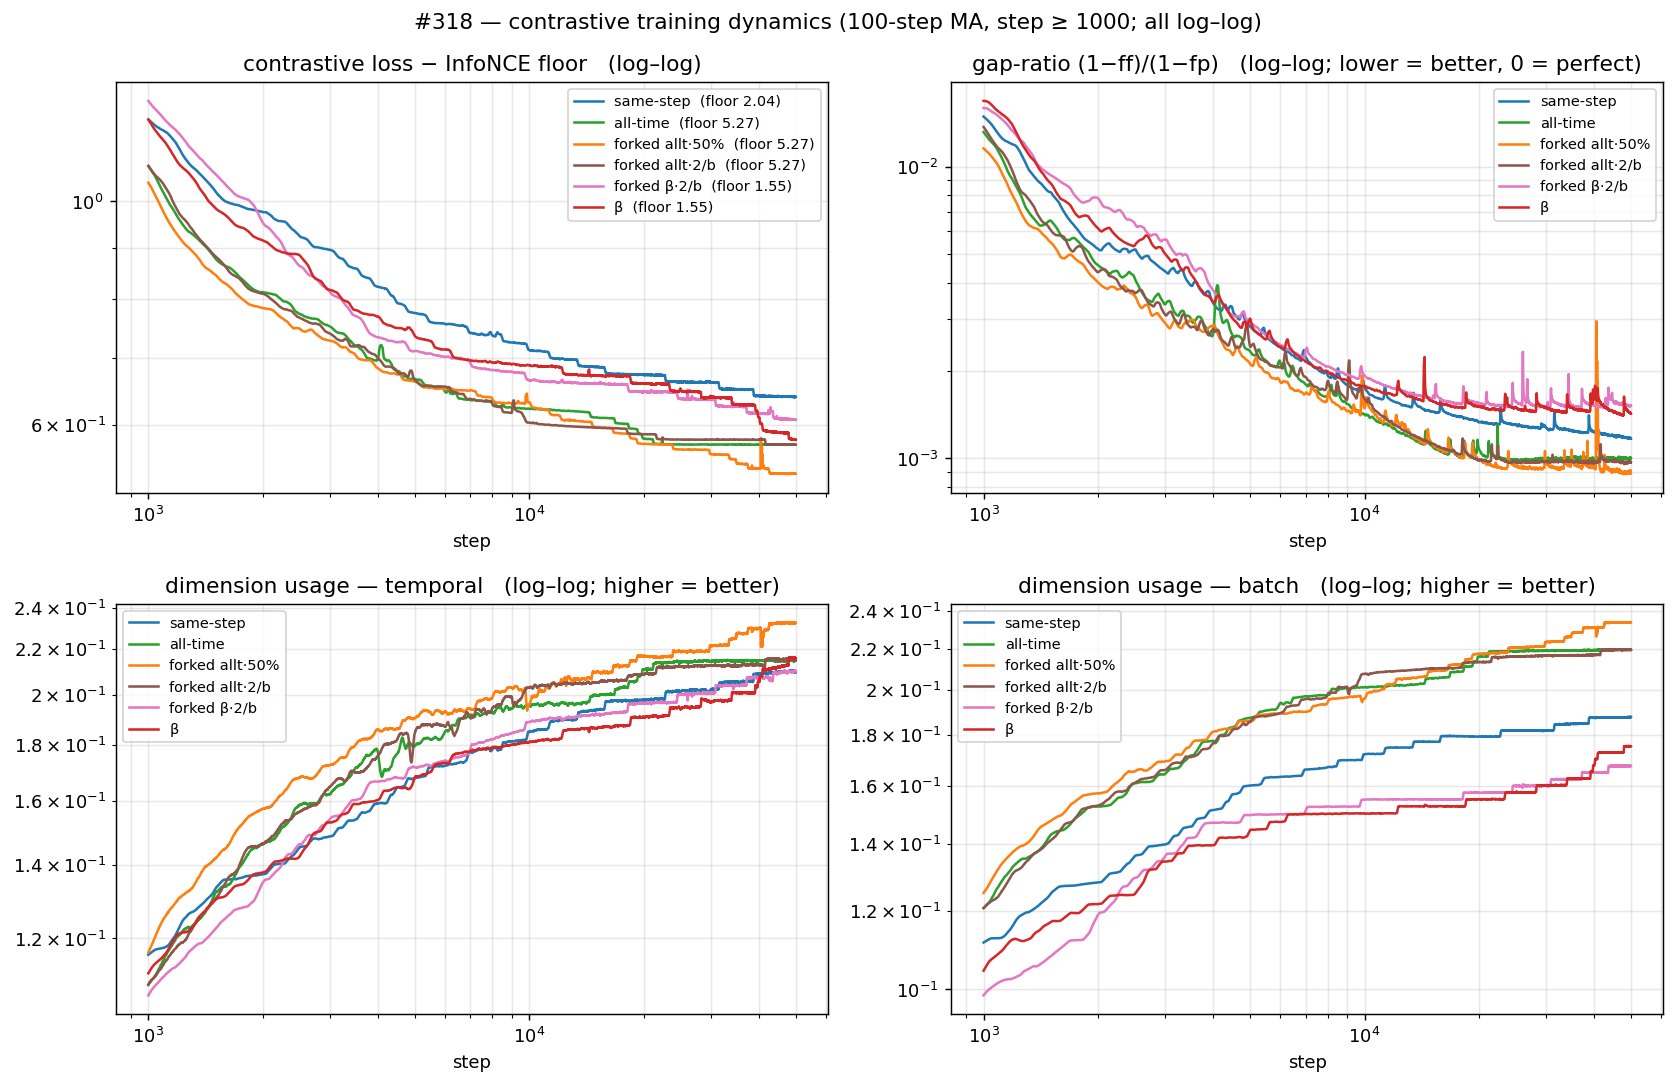
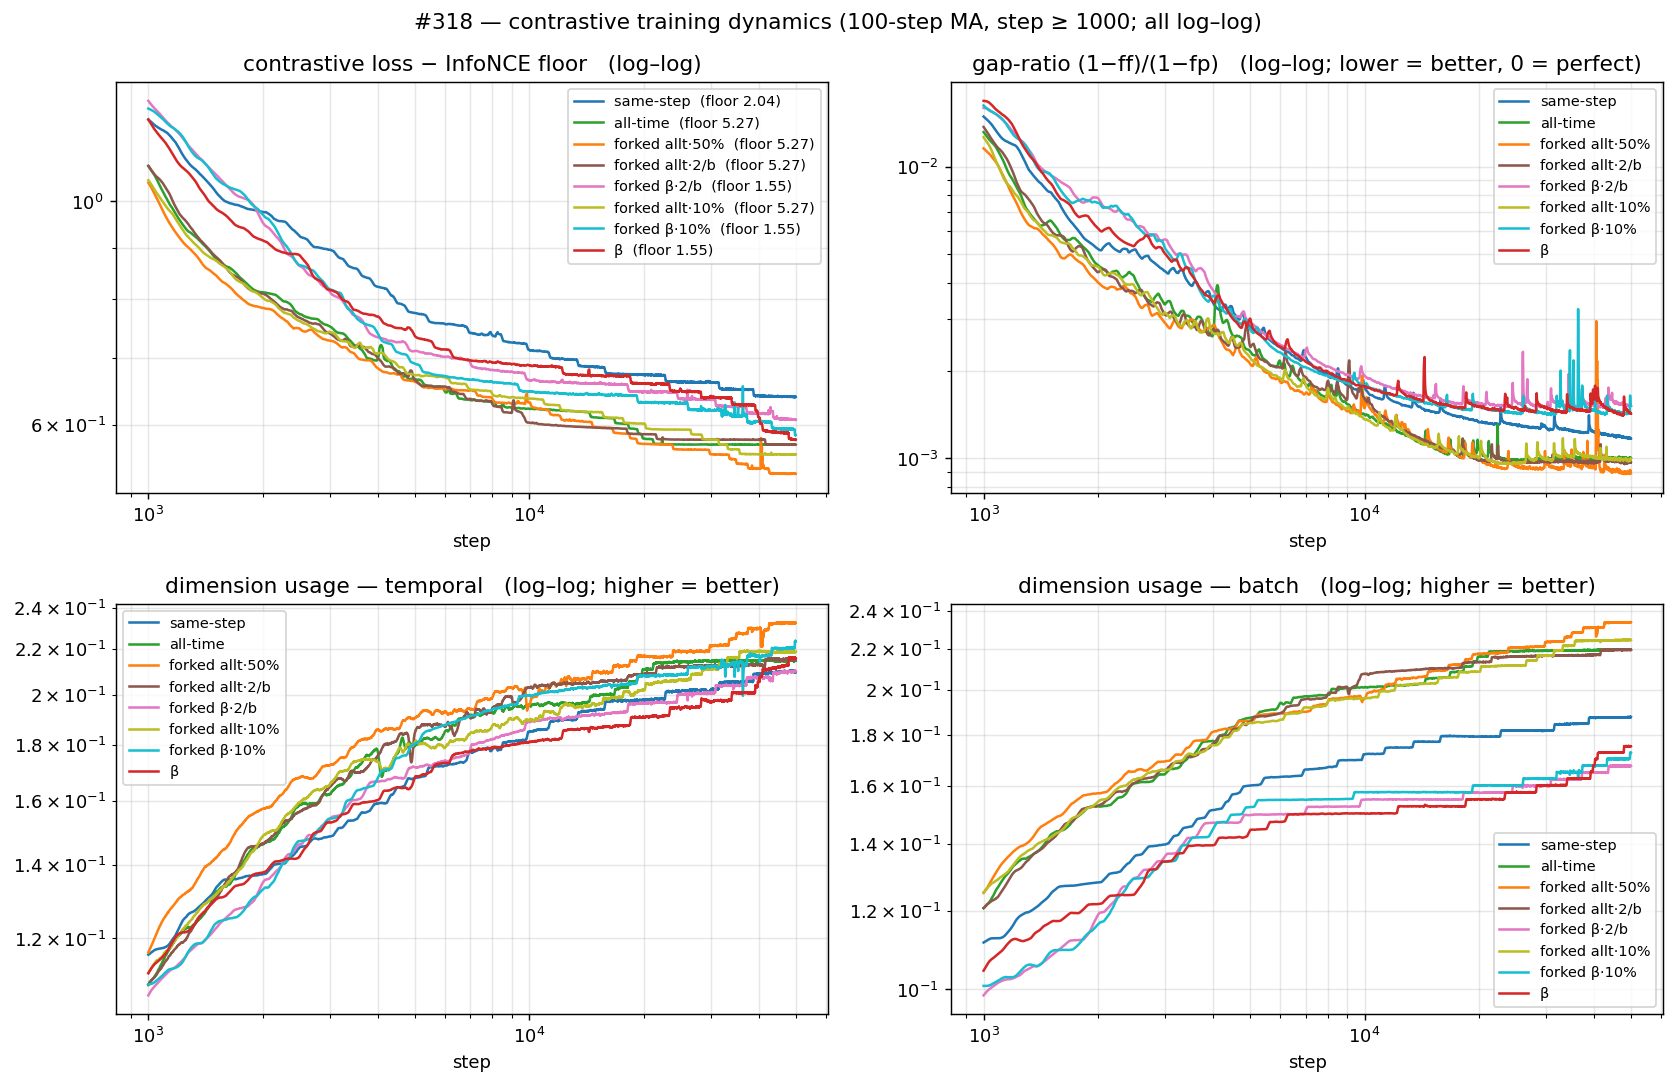
results(#318): β-10% 2L = 1.3030 — first arm to beat β (developing)
The 10% forked injection on β edges β·2L (1.3272) at the 2L head: 1.3030 (-1.8%),
reversing the 0.8% result (1.5302). Verdict updated to "developing": data-side
fork is injection-fraction-dependent. Preliminary — 2L only, single seed (margin
~noise); 6L + all-time-10% still evaluating. Wired 10% arms into gm_summary +
training_curves (auto-fill as heads land).

diff --git a/experiments/2026-05-23_xseries_hh/scripts/plots.py b/experiments/2026-05-23_xseries_hh/scripts/plots.py
@@ -50,9 +50,12 @@ BETA_CSV = f"{BETA_DIR}/runs/bb_beta_50k_losses.csv"
 FORK_CSV  = f"{OUT}/runs/bb_xshh_allt_forked_50k_losses.csv"    # forked, all-time loss, 50% synth
 FORK2_CSV = f"{OUT}/runs/bb_xshh_allt_forked2_50k_losses.csv"   # forked, all-time loss, 2 samples/batch
 BFORK_CSV = f"{OUT}/runs/bb_beta_forked2_50k_losses.csv"        # forked, β loss, 2 samples/batch
+FORK10_CSV  = f"{OUT}/runs/bb_xshh_allt_forked10pct_50k_losses.csv"  # forked, all-time loss, 10%
+BFORK10_CSV = f"{OUT}/runs/bb_beta_forked10pct_50k_losses.csv"       # forked, β loss, 10%
 
 C_XSHH, C_ALLT, C_BETA, C_V11C = "#1f77b4", "#2ca02c", "#d62728", "#9467bd"
 C_FORK, C_FORK2, C_BFORK = "#ff7f0e", "#8c564b", "#e377c2"   # data-side forked: allt·50% / allt·2 / β·2
+C_FORK10, C_BFORK10 = "#bcbd22", "#17becf"   # forked 10%: all-time / β
 
 
 def agg_gm(sum_txt):
@@ -117,6 +120,10 @@ def plot_gm_summary():
         ("forked allt·2/b · 6L", fk("xshh_allt_forked2_50k", "6L", "full"), fk("xshh_allt_forked2_50k", "6L", "triage"), C_FORK2),
         ("forked β·2/b · 2L", fk("beta_forked2_50k", "2L", "full"), fk("beta_forked2_50k", "2L", "triage"), C_BFORK),
         ("forked β·2/b · 6L", fk("beta_forked2_50k", "6L", "full"), fk("beta_forked2_50k", "6L", "triage"), C_BFORK),
+        ("forked allt·10% · 2L", fk("xshh_allt_forked10pct_50k", "2L", "full"), fk("xshh_allt_forked10pct_50k", "2L", "triage"), C_FORK10),
+        ("forked allt·10% · 6L", fk("xshh_allt_forked10pct_50k", "6L", "full"), fk("xshh_allt_forked10pct_50k", "6L", "triage"), C_FORK10),
+        ("forked β·10% · 2L", fk("beta_forked10pct_50k", "2L", "full"), fk("beta_forked10pct_50k", "2L", "triage"), C_BFORK10),
+        ("forked β·10% · 6L", fk("beta_forked10pct_50k", "6L", "full"), fk("beta_forked10pct_50k", "6L", "triage"), C_BFORK10),
         ("β · 2L", f"{BETA_DIR}/results/gift_eval_full_bb_beta_50k/summary.txt",
          f"{BETA_DIR}/results/gift_eval_triage_bb_beta_50k/summary.txt", C_BETA),
         ("β · 6L", fk("beta_50k", "6L", "full"), fk("beta_50k", "6L", "triage"), C_BETA),
@@ -226,6 +233,8 @@ def plot_training_curves():
             ("forked allt·50%", _load_curve(FORK_CSV), C_FORK, "allt"),
             ("forked allt·2/b", _load_curve(FORK2_CSV), C_FORK2, "allt"),
             ("forked β·2/b",    _load_curve(BFORK_CSV), C_BFORK, "beta"),
+            ("forked allt·10%", _load_curve(FORK10_CSV), C_FORK10, "allt"),
+            ("forked β·10%",    _load_curve(BFORK10_CSV), C_BFORK10, "beta"),
             ("β",               _load_curve(BETA_CSV), C_BETA, "beta")]
     arms = [a for a in arms if a[1]]   # pending arms (no CSV yet) drop out
     if not arms:

diff --git a/experiments/2026-05-23_xseries_hh/RESULTS.md b/experiments/2026-05-23_xseries_hh/RESULTS.md
@@ -1,15 +1,15 @@
 # #318 — Deny the positional shortcut: loss-side vs data-side
 
-**Verdict.** Two ways to deny the shortcut — through the **loss** (cross-series h↔h
-repulsion; same-step, all-time) and through the **data** (forked continuations:
-identical past, divergent futures) — and **neither beats β**. Loss-side hurts:
-same-step **+22%**, all-time **+6.6%** vs β at the 2L head. The data-side fork
-looked best-of-6L at a **50% synthetic mix** (1.4065), but that was a **confound**:
-isolating the fork to one pair per 256-batch removes the win — forked·allt·2/b
-**1.4049** (2L, ≈ all-time) / **1.5100** (6L, *worse* than all-time), forked·β·2/b
-**1.5302 / 1.4412** — so the gain tracked the synthetic-data *fraction*, not the
-fork. **β·2L (1.3272) is the best overall**: denying the positional shortcut, by
-loss or by data, does not improve GIFT-Eval transfer.
+**Verdict (developing).** Denying the shortcut through the **loss** (cross-series
+h↔h repulsion; same-step, all-time) **hurts** — +22% / +6.6% vs β (2L). Through the
+**data** (forked continuations: identical past, divergent futures) it is
+**injection-fraction-dependent**: the 50%-mix 6L "win" (1.4065) was a
+synthetic-fraction confound (isolating to one pair/256-batch gives no gain —
+forked·allt·2/b 1.4049 / 1.5100, forked·β·2/b 1.5302 / 1.4412), **but at a 10%
+injection on β it edges β**: **forked·β·10%·2L = 1.3030**, −1.8% vs β·2L 1.3272 —
+the **first arm to beat β**, reversing the 0.8% result. *Preliminary:* 2L head
+only, single seed (margin ≈ the ±0.02 noise), with the 6L head and the all-time·10%
+arm still evaluating; β·2L (1.3272) is the established baseline.
 
 ![full-97 GM summary](plots/gm_summary.png)
 *GM-Relative MASE, lower = better; 1.0 = seasonal-naive. Every arm × {2L, 6L}; the
@@ -131,8 +131,10 @@ seasonal-naive 1.0.
 | data-side · forked allt·2/b | 6L | 1.5100 | 1.6348 | +13.8% |
 | data-side · forked β·2/b | 2L | 1.5302 | 1.4376 | +15.3% |
 | data-side · forked β·2/b | 6L | 1.4412 | 1.4027 | +8.6% |
-| data-side · forked allt·10% | 2L · 6L | *in flight* | *in flight* | — |
-| data-side · forked β·10% | 2L · 6L | *in flight* | *in flight* | — |
+| data-side · forked allt·10% | 2L | *in flight* | *in flight* | — |
+| data-side · forked allt·10% | 6L | *in flight* | *in flight* | — |
+| data-side · **forked β·10%** | 2L | **1.3030** | 1.4559 | **−1.8%** |
+| data-side · forked β·10% | 6L | *in flight* | *in flight* | — |
 | v11c (reference) | 2L | 1.292 | — | −2.7% |
 
 *GM-Relative MASE, lower = better; Δ vs the best arm β·2L (1.3272).*
